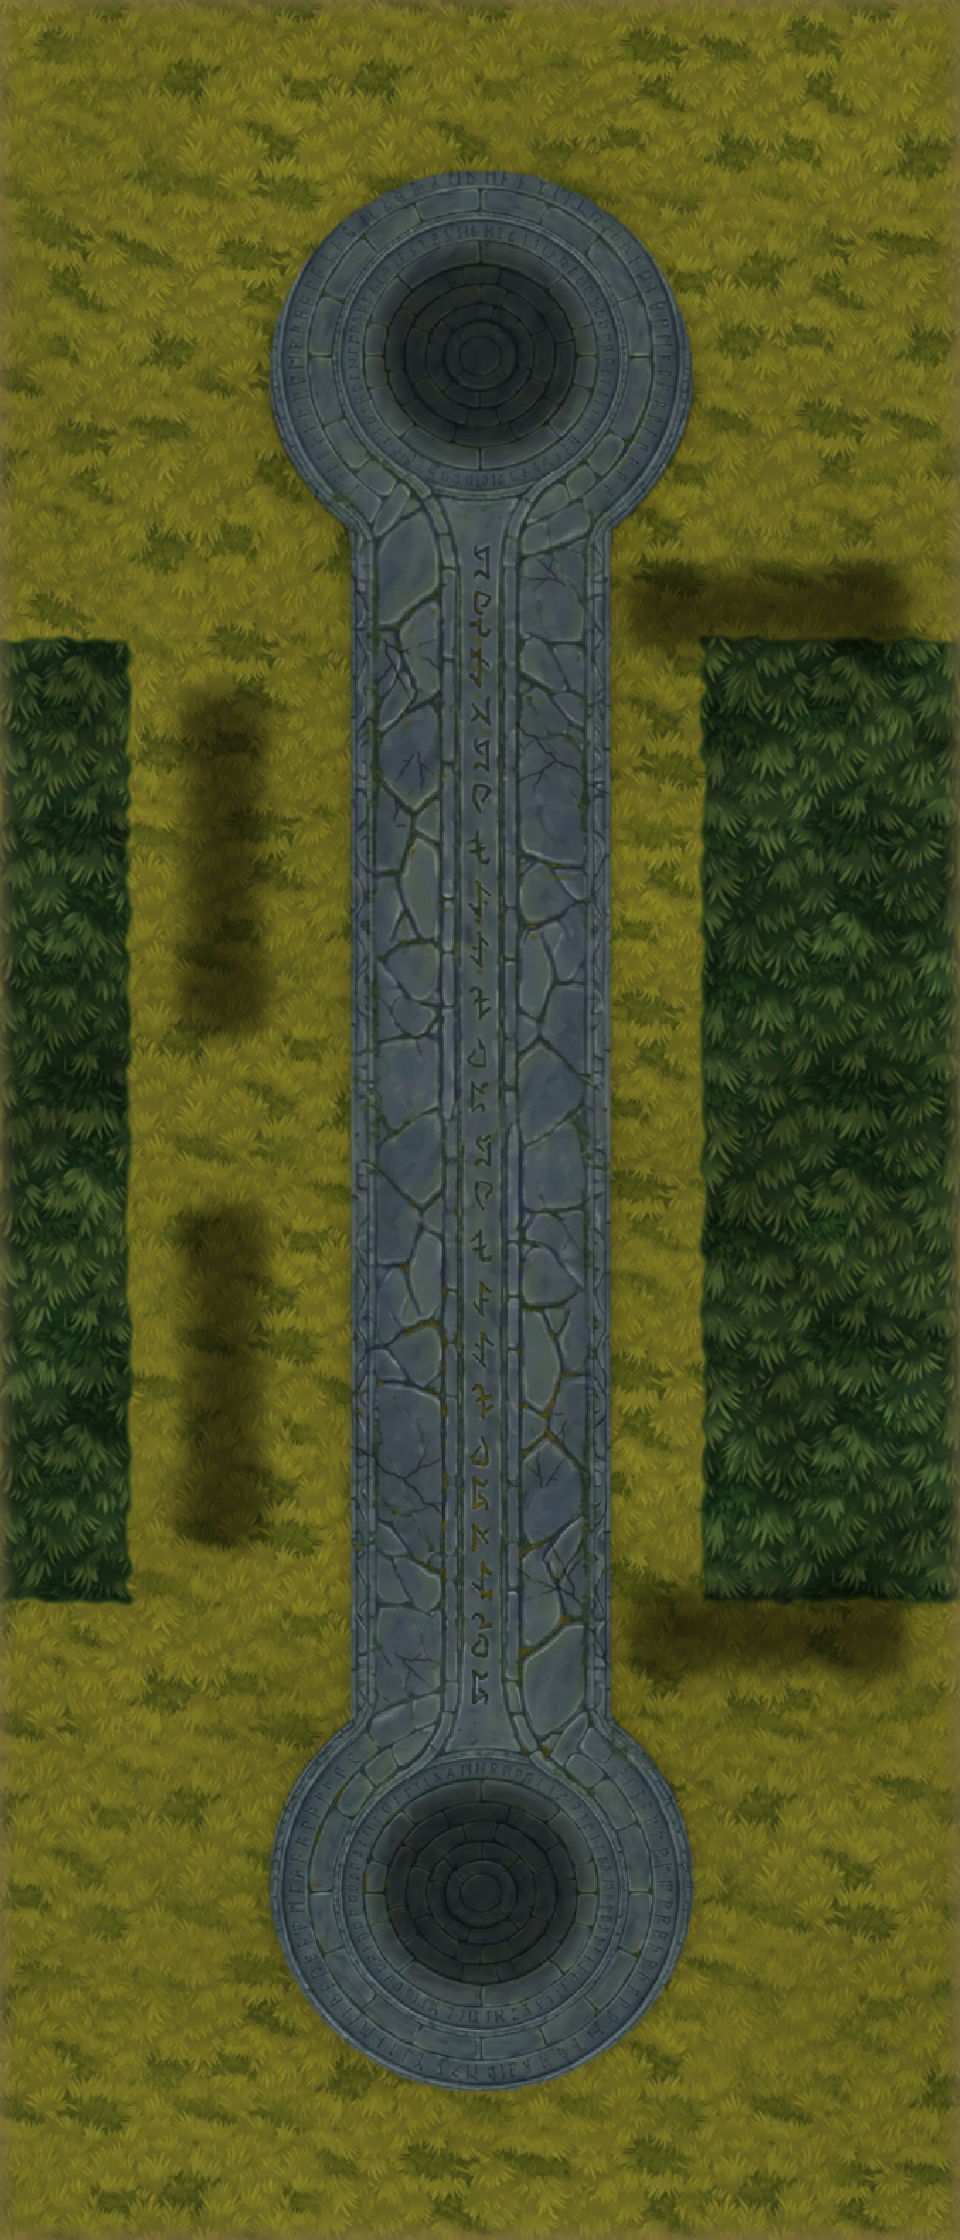
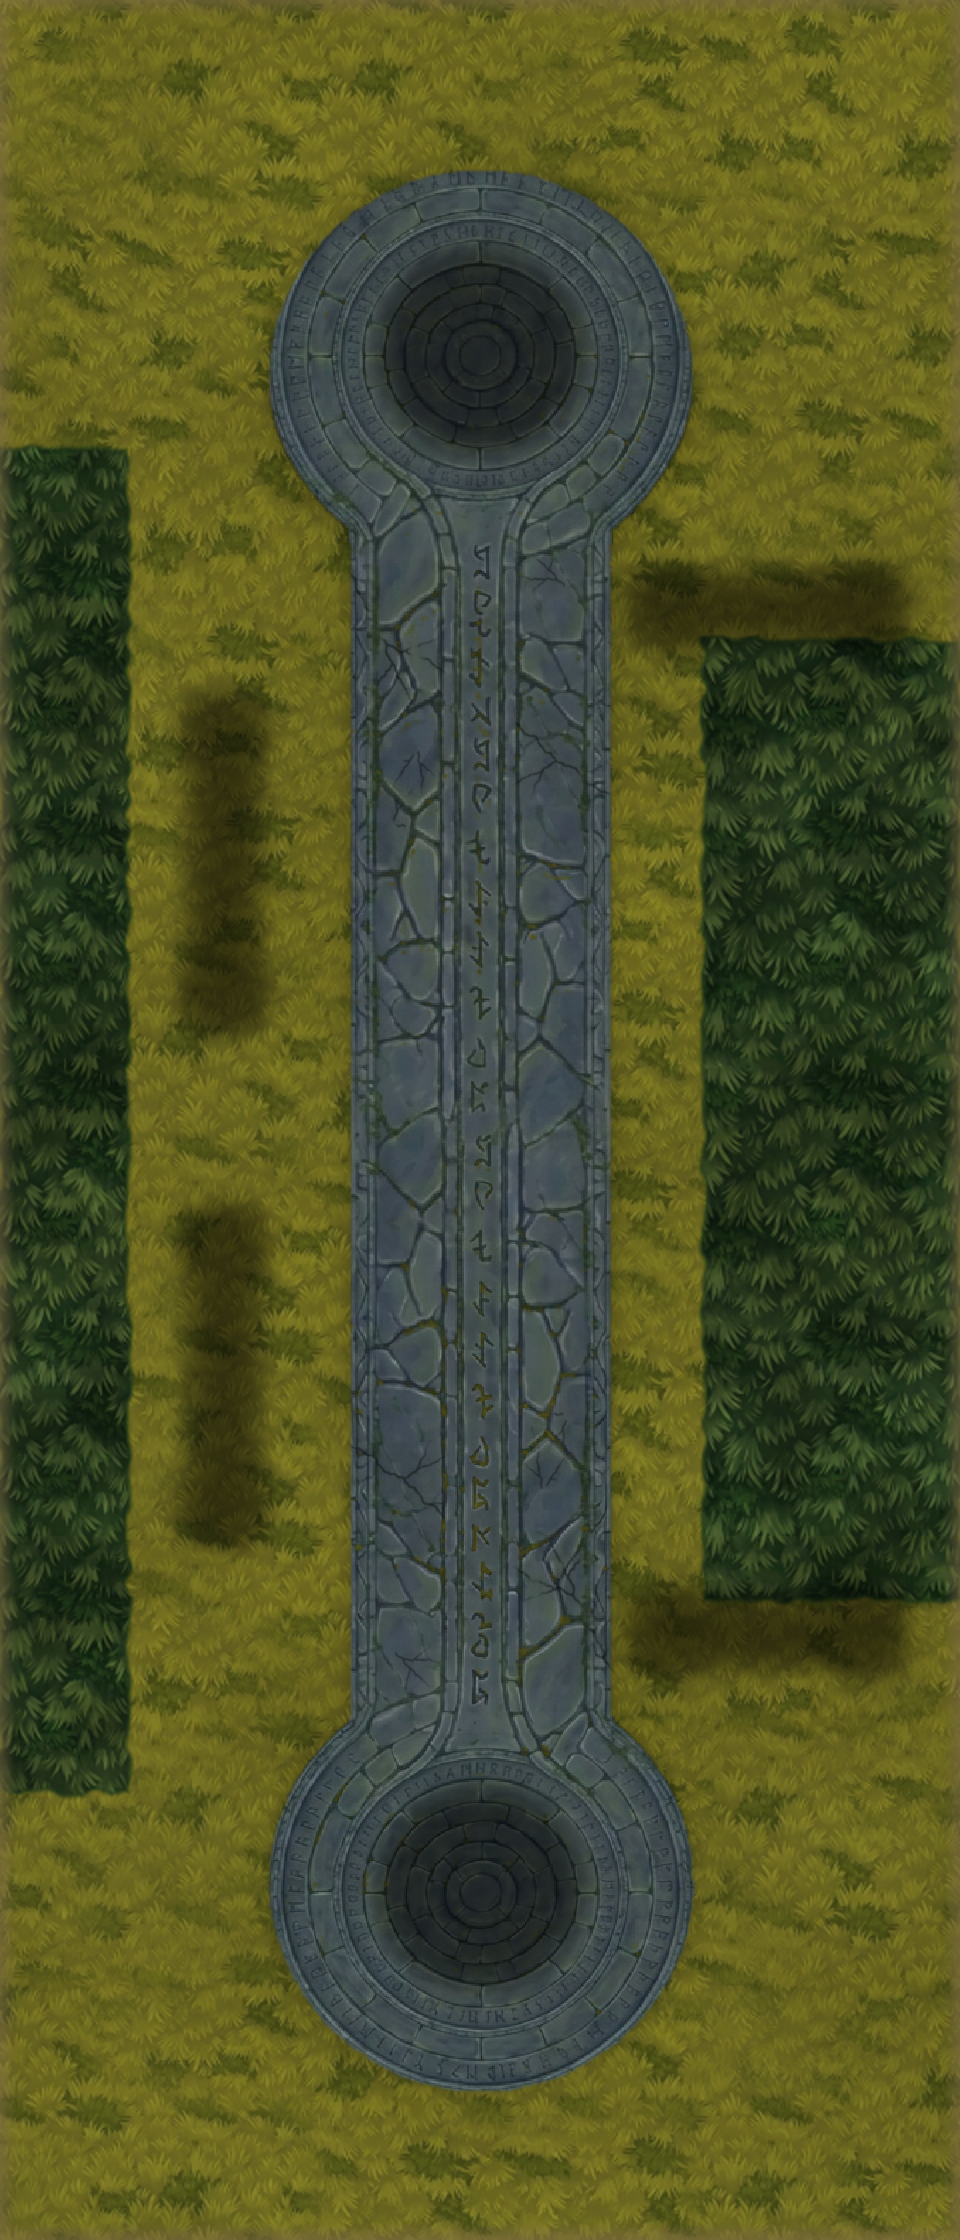
Grove: vänstra gräsremsan går 3 rader närmare tornet, uppe och nere (GroveTop rad 7-9, omgräddad T_BAM_ArenaGround_Grove.png, samma .meta; Rickards skärmbild 13 nov); Runes orörd, ingen protokollhöjning (online spelar aldrig Grove); 688/688, SIMMIRROR OK, botlab Grove 600 matcher = brus
Claude-Session: https://claude.ai/code/session_01M7eBmsdbX5dujjbvcNASSn

Changed region(s): [[0.0, 0.1875, 0.1562, 0.3125], [0.0, 0.6875, 0.1562, 0.8125]]

diff --git a/Assets/BAM/Sim/Arena.cs b/Assets/BAM/Sim/Arena.cs
@@ -59,9 +59,9 @@ namespace BAM.Sim
             ".......2.......", // 4
             ".......1.......", // 5
             "...............", // 6
-            "...........J...", // 7  the pad throws you to row 13, over the wall bar into the grass
-            "...............", // 8
-            "..........####.", // 9  the wall bar
+            "gg.........J...", // 7  the pad throws you to row 13, over the wall bar into the grass; the left grass strip reaches
+            "gg.............", // 8  up to row 7 toward the tower (Rickard 2026-11-13: grass over the bare patch by the water,
+            "gg........####.", // 9  top and bottom); the wall bar
             "gg.........gggg", // 10
             "gg.#.......gggg", // 11
             "gg.#.......gggg", // 12
